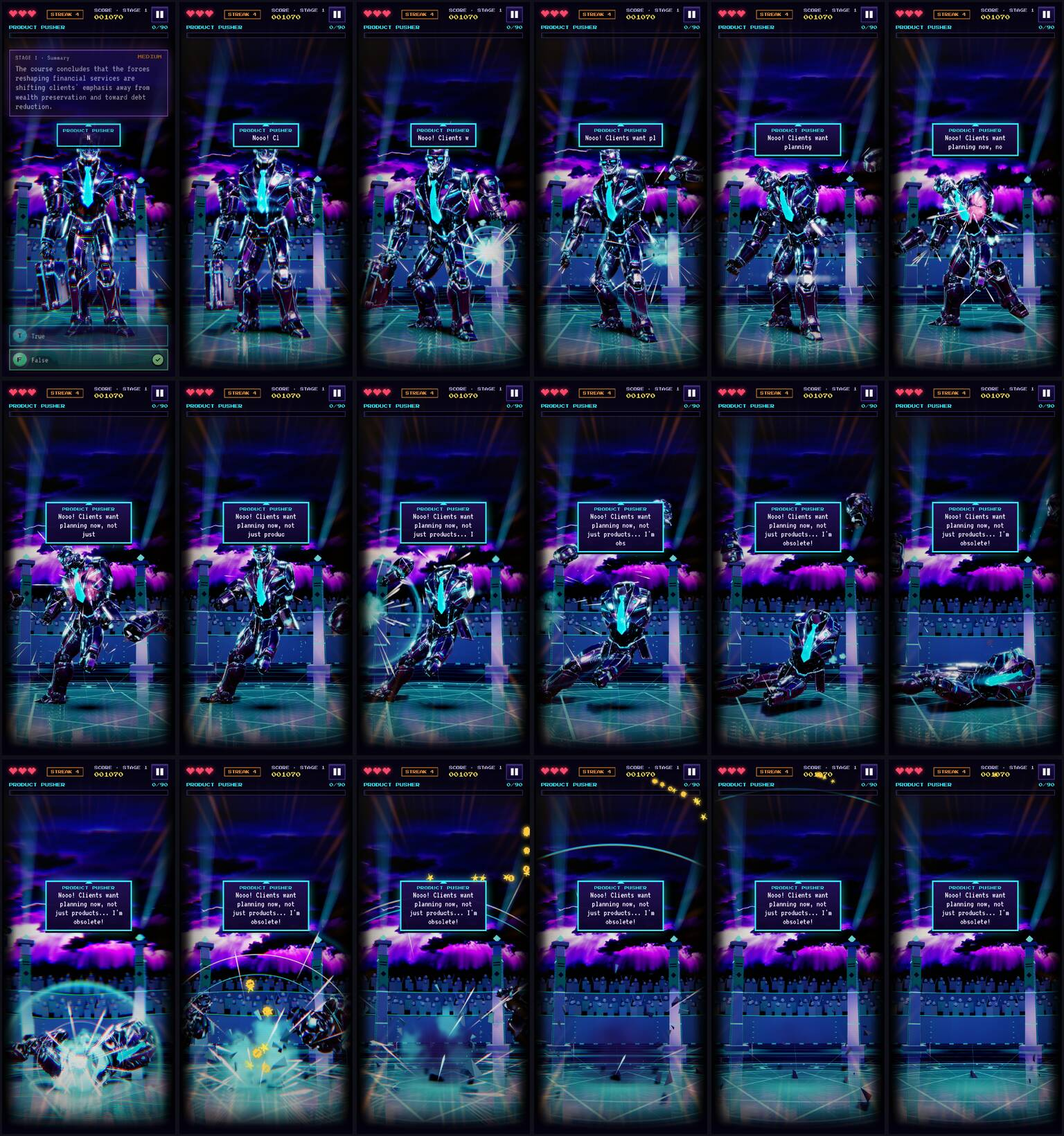
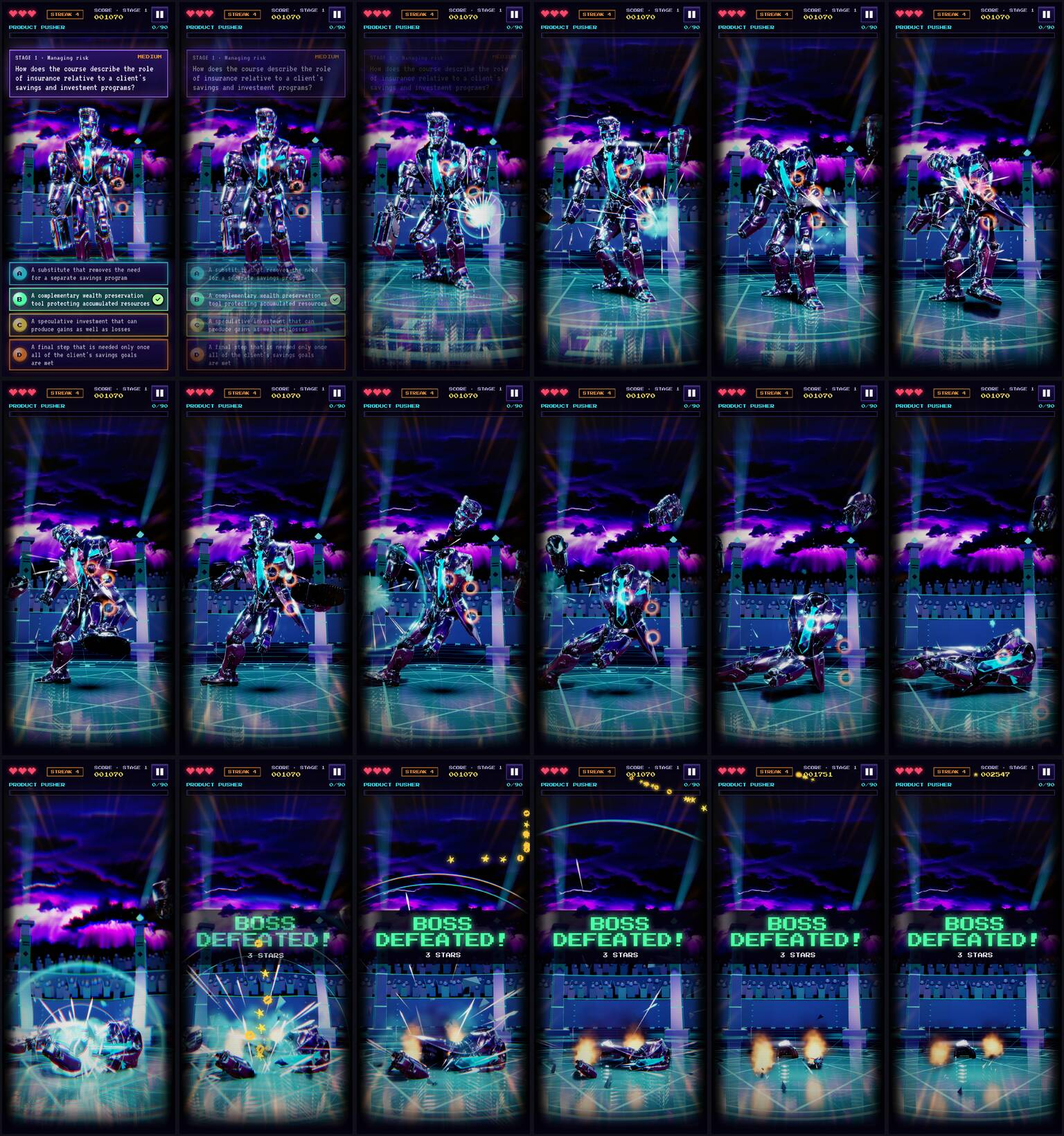
Boss Rush, after the review: final captures of boss 1 (remade, its full set) and boss 2; the scenario clears a trophy card left from the fight before
Claude-Session: https://claude.ai/code/session_01SXN4PWw2h7NprrScNwTTGU

diff --git a/arcade/tools/scenarios/boss-fight.js b/arcade/tools/scenarios/boss-fight.js
@@ -173,12 +173,16 @@ module.exports = async (cap) => {
   }
   // ---- the player's defeat (a second run of the same fight: the last heart goes, the boss has the last word)
   if (full && has("defeat")) {
+    // (a trophy won by the fight before, in the same page, would still be dropping in over the HUD: cleared)
+    const noTrophy = () => page(() => { const T = window.__arcade.Trophies; if (T && T.queue) T.queue.length = 0; document.querySelectorAll(".trophy").forEach((e) => e.remove()); });
+    await noTrophy();
     await cap.go("boss", key);
     await ready(120);
     await set({ hearts: 1 });
     await cap.answer("W");
     await cap.fast(70);
     await cap.next();
+    await noTrophy();
     await strip("10-player-defeat", 12, 12, { cols: 6, band: false, thumb: 250 });
   }
 };
